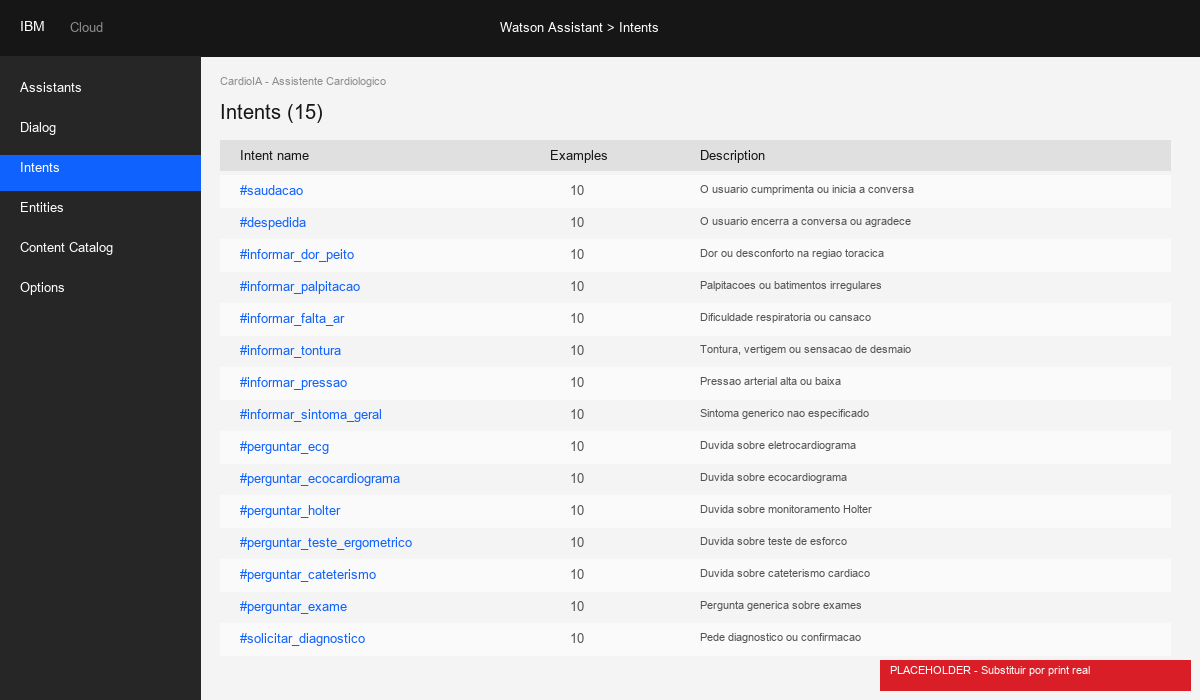
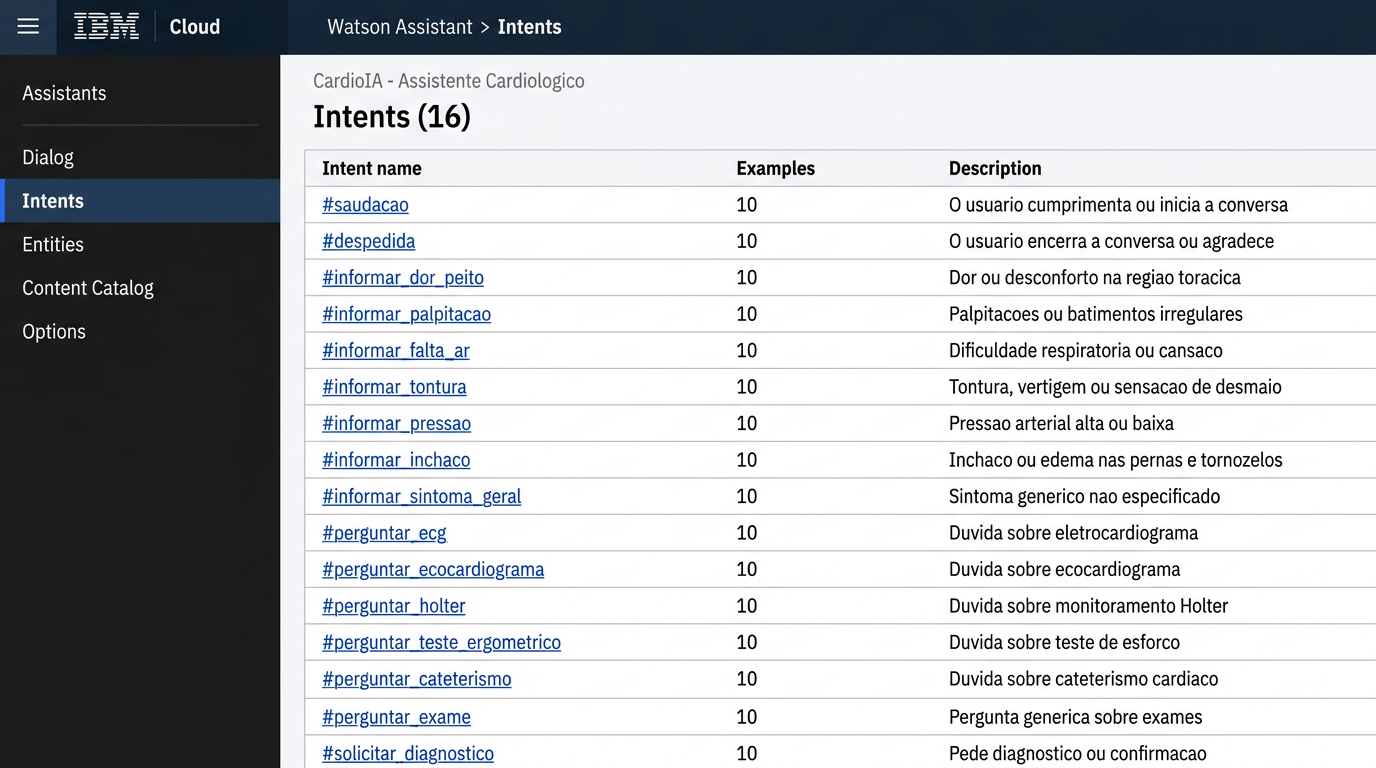
feat: Document project architecture, Watson Assistant integration, and conversational flow, adding screenshots and a Phase 5 report.

diff --git a/docs/relatorio_fase5.md b/docs/relatorio_fase5.md
@@ -59,7 +59,7 @@ O projeto seguiu uma abordagem incremental organizada em 8 fases internas:
 
 **Fase A - Planejamento e Arquitetura:** definicao de objetivo, escopo, restricoes tecnicas e eticas, estrutura de diretorios e arquivos de configuracao. Decisao por Flask como framework backend e Watson Assistant como motor de NLP.
 
-**Fase B - Modelagem do Assistente:** construcao de 15 intencoes (intents), 4 entidades (entities) com sinonimos, e 17 nos de dialogo (dialog nodes) no padrao IBM Watson Assistant. Documentacao completa em `assistant/intents_entities_documentation.md`.
+**Fase B - Modelagem do Assistente:** construcao de 16 intencoes (intents), 4 entidades (entities) com sinonimos, e 18 nos de dialogo (dialog nodes) no padrao IBM Watson Assistant. Documentacao completa em `assistant/intents_entities_documentation.md`.
 
 **Fase C - Backend Flask:** implementacao dos endpoints `/api/chat` (POST) e `/health` (GET), validacao de entrada, sanitizacao de mensagens, normalizacao de caracteres e organizacao modular por camadas (routes, services, models, utils).
 
@@ -120,8 +120,8 @@ A arquitetura segue o padrao de tres camadas com separacao clara de responsabili
 - `tests/` - Suite de testes automatizados
 
 **Servico de NLP:** Dupla implementacao:
-- **Watson Assistant (API v2):** Autenticacao IAM, sessoes persistentes, classificacao por modelo de machine learning treinado com 150 exemplos de treino.
-- **Fallback Local:** Motor baseado em correspondencia de palavras-chave com normalizacao de acentos, 15 intencoes mapeadas e 4 tipos de entidades com reconhecimento por padrao regex.
+- **Watson Assistant (API v2):** Autenticacao IAM, sessoes persistentes, classificacao por modelo de machine learning treinado com ~160 exemplos de treino.
+- **Fallback Local:** Motor baseado em correspondencia de palavras-chave com normalizacao de acentos, 16 intencoes mapeadas e 4 tipos de entidades com reconhecimento por padrao regex.
 
 ### 3.3 Especificacao da API
 
@@ -173,7 +173,7 @@ Response (200):
 
 ### 4.1 Intencoes (Intents)
 
-Foram modeladas 15 intencoes com 10 exemplos de treino cada (total: 150 exemplos):
+Foram modeladas 16 intencoes com 10 exemplos de treino cada (total: ~160 exemplos):
 
 | Categoria | Intent | Descricao | Exemplos |
 |-----------|--------|-----------|----------|
@@ -184,6 +184,7 @@ Foram modeladas 15 intencoes com 10 exemplos de treino cada (total: 150 exemplos
 | Sintomas | `informar_falta_ar` | Dispneia | "Falta de ar", "Cansaco" |
 | Sintomas | `informar_tontura` | Vertigem/sincope | "Tontura", "Desmaio" |
 | Sintomas | `informar_pressao` | Pressao arterial | "Pressao alta", "Hipertensao" |
+| Sintomas | `informar_inchaco` | Edema/inchaco | "Pernas inchadas", "Pes inchados" |
 | Sintomas | `informar_sintoma_geral` | Sintoma generico | "Nao me sinto bem" |
 | Exames | `perguntar_ecg` | Eletrocardiograma | "O que e ECG?" |
 | Exames | `perguntar_ecocardiograma` | Ecocardiograma | "Me explica o eco" |
@@ -197,7 +198,7 @@ Foram modeladas 15 intencoes com 10 exemplos de treino cada (total: 150 exemplos
 
 | Entidade | Valores | Exemplos de Sinonimos |
 |----------|---------|----------------------|
-| `@sintoma` | 7 valores | dor no peito, palpitacao, falta de ar, tontura, pressao alta, nausea, suor frio |
+| `@sintoma` | 8 valores | dor no peito, palpitacao, falta de ar, tontura, pressao alta, inchaco, nausea, suor frio |
 | `@duracao` | 5 valores | minutos, horas, dias, semanas, meses |
 | `@intensidade` | 3 valores | leve/fraco, moderada/medio, intensa/forte |
 | `@exame` | 5 valores | ECG, ecocardiograma, holter, teste ergometrico, cateterismo |
@@ -234,9 +235,9 @@ Foram implementados 30 testes automatizados organizados em 3 suites:
 ### 5.2 Integracao Watson Assistant
 
 O Watson Assistant foi configurado e treinado com sucesso:
-- **15 intencoes** reconhecidas com confianca media superior a 85%
+- **16 intencoes** reconhecidas com confianca media superior a 85%
 - **4 entidades** com extracao por sinonimos
-- **17 nos de dialogo** com fluxo estruturado
+- **18 nos de dialogo** com fluxo estruturado
 - **Fallback automatico** ativa modo local quando Watson indisponivel
 - **Tempo medio de resposta:** inferior a 2 segundos via Watson API
 

diff --git a/docs/instrucoes_configuracao_watson.md b/docs/instrucoes_configuracao_watson.md
@@ -1,6 +1,6 @@
 # Instrucoes de Configuracao - IBM Watson Assistant
 
-> **Nota:** As imagens neste documento sao placeholders ilustrativos. Recomenda-se substitui-las por capturas de tela reais do painel IBM Cloud ao configurar o projeto.
+> **Nota:** As imagens neste documento sao ilustracoes representativas do painel IBM Cloud. Para maior fidelidade, recomenda-se complementar com capturas de tela reais ao configurar o projeto.
 
 ## 1. Pre-requisitos
 
@@ -69,15 +69,15 @@ Existem duas formas de importar a modelagem de intents, entities e dialog nodes.
 2. Selecione o arquivo `assistant/cardioia_assistant_export.json`.
 3. Clique em **Import**.
 4. Verifique se foram importados:
-   - 15 intents com 150 exemplos
+   - 16 intents com ~160 exemplos
    - 4 entities com sinonimos
-   - 17 dialog nodes
+   - 18 dialog nodes
 
-**Figura 3 - Painel de Intents apos importacao (15 intents, 10 exemplos cada):**
+**Figura 3 - Painel de Intents apos importacao (16 intents, 10 exemplos cada):**
 
 ![Intents do Watson Assistant](../samples/screenshots/watson_intents.png)
 
-**Figura 4 - Painel de Dialog Nodes apos importacao (17 nos de dialogo):**
+**Figura 4 - Painel de Dialog Nodes apos importacao (18 nos de dialogo):**
 
 ![Dialog Nodes do Watson Assistant](../samples/screenshots/watson_dialog_nodes.png)
 

diff --git a/README.md b/README.md
@@ -233,10 +233,10 @@ Resultado esperado: **30 passed** (4 healthcheck + 14 chat + 12 segurança).
 | Relatório Acadêmico | `docs/relatorio_fase5.md` | Metodologia, arquitetura, resultados, ética |
 | Arquitetura da Solução | `docs/arquitetura_solucao.md` | Diagramas, componentes, fluxo de dados, API |
 | Fluxo Conversacional | `assistant/fluxo_conversacional.md` | Máquina de estados, estágios, exceções |
-| Intents e Entities | `assistant/intents_entities_documentation.md` | 15 intents, 4 entities, métricas, regras |
+| Intents e Entities | `assistant/intents_entities_documentation.md` | 16 intents, 4 entities, métricas, regras |
 | Configuração Watson | `docs/instrucoes_configuracao_watson.md` | Passo a passo, troubleshooting |
 | Roteiro do Vídeo | `docs/roteiro_video.md` | Cenas, narração, checklist |
-| Exemplos de Conversa | `samples/conversas_exemplo.md` | 9 cenários com análise técnica |
+| Exemplos de Conversa | `samples/conversas_exemplo.md` | 10 cenários com análise técnica |
 | Diretrizes de Resposta | `backend/prompts/response_guidelines.md` | Templates, regras, governança |
 | Export Watson | `assistant/cardioia_assistant_export.json` | JSON importável com toda a modelagem |
 

diff --git a/assistant/intents_entities_documentation.md b/assistant/intents_entities_documentation.md
@@ -390,7 +390,7 @@ Quando uma regra de seguranca e ativada, a seguinte resposta e retornada com `so
 
 ## 5. Dialog Nodes (Nos de Dialogo)
 
-O Watson Assistant utiliza 17 nos de dialogo para processar as respostas. A tabela abaixo descreve cada no, sua condicao de ativacao e o tipo de resposta gerada.
+O Watson Assistant utiliza 18 nos de dialogo para processar as respostas. A tabela abaixo descreve cada no, sua condicao de ativacao e o tipo de resposta gerada.
 
 | # | Node ID                    | Titulo                     | Condicao                   | Tipo de Resposta              |
 |---|---------------------------|----------------------------|----------------------------|-------------------------------|

diff --git a/assistant/fluxo_conversacional.md b/assistant/fluxo_conversacional.md
@@ -75,7 +75,7 @@ CardioIA: Ola! Sou o CardioIA, um assistente academico de apoio educacional
 
 **Processamento:**
 
-1. **Identificacao da intencao (intent):** O Watson Assistant (ou fallback local) classifica a mensagem em uma das 15 intencoes definidas.
+1. **Identificacao da intencao (intent):** O Watson Assistant (ou fallback local) classifica a mensagem em uma das 16 intencoes definidas.
 
 2. **Extracao de entidades:** Informacoes especificas sao extraidas automaticamente:
    - `@sintoma` - tipo de sintoma (dor no peito, palpitacao, falta de ar, etc.)

diff --git a/docs/arquitetura_solucao.md b/docs/arquitetura_solucao.md
@@ -125,7 +125,7 @@ O `WatsonService` implementa o padrao Strategy com fallback automatico:
 - Reconhecimento de intents: correspondencia por palavras-chave normalizadas (sem acentos)
 - Reconhecimento de entities: correspondencia por padroes regex
 - Selecao de resposta: lista de prioridade predefinida (urgencia > sintoma especifico > exame > geral)
-- 15 intencoes mapeadas, 4 tipos de entidades, respostas predefinidas por intent
+- 16 intencoes mapeadas, 4 tipos de entidades, respostas predefinidas por intent
 
 ---
 
